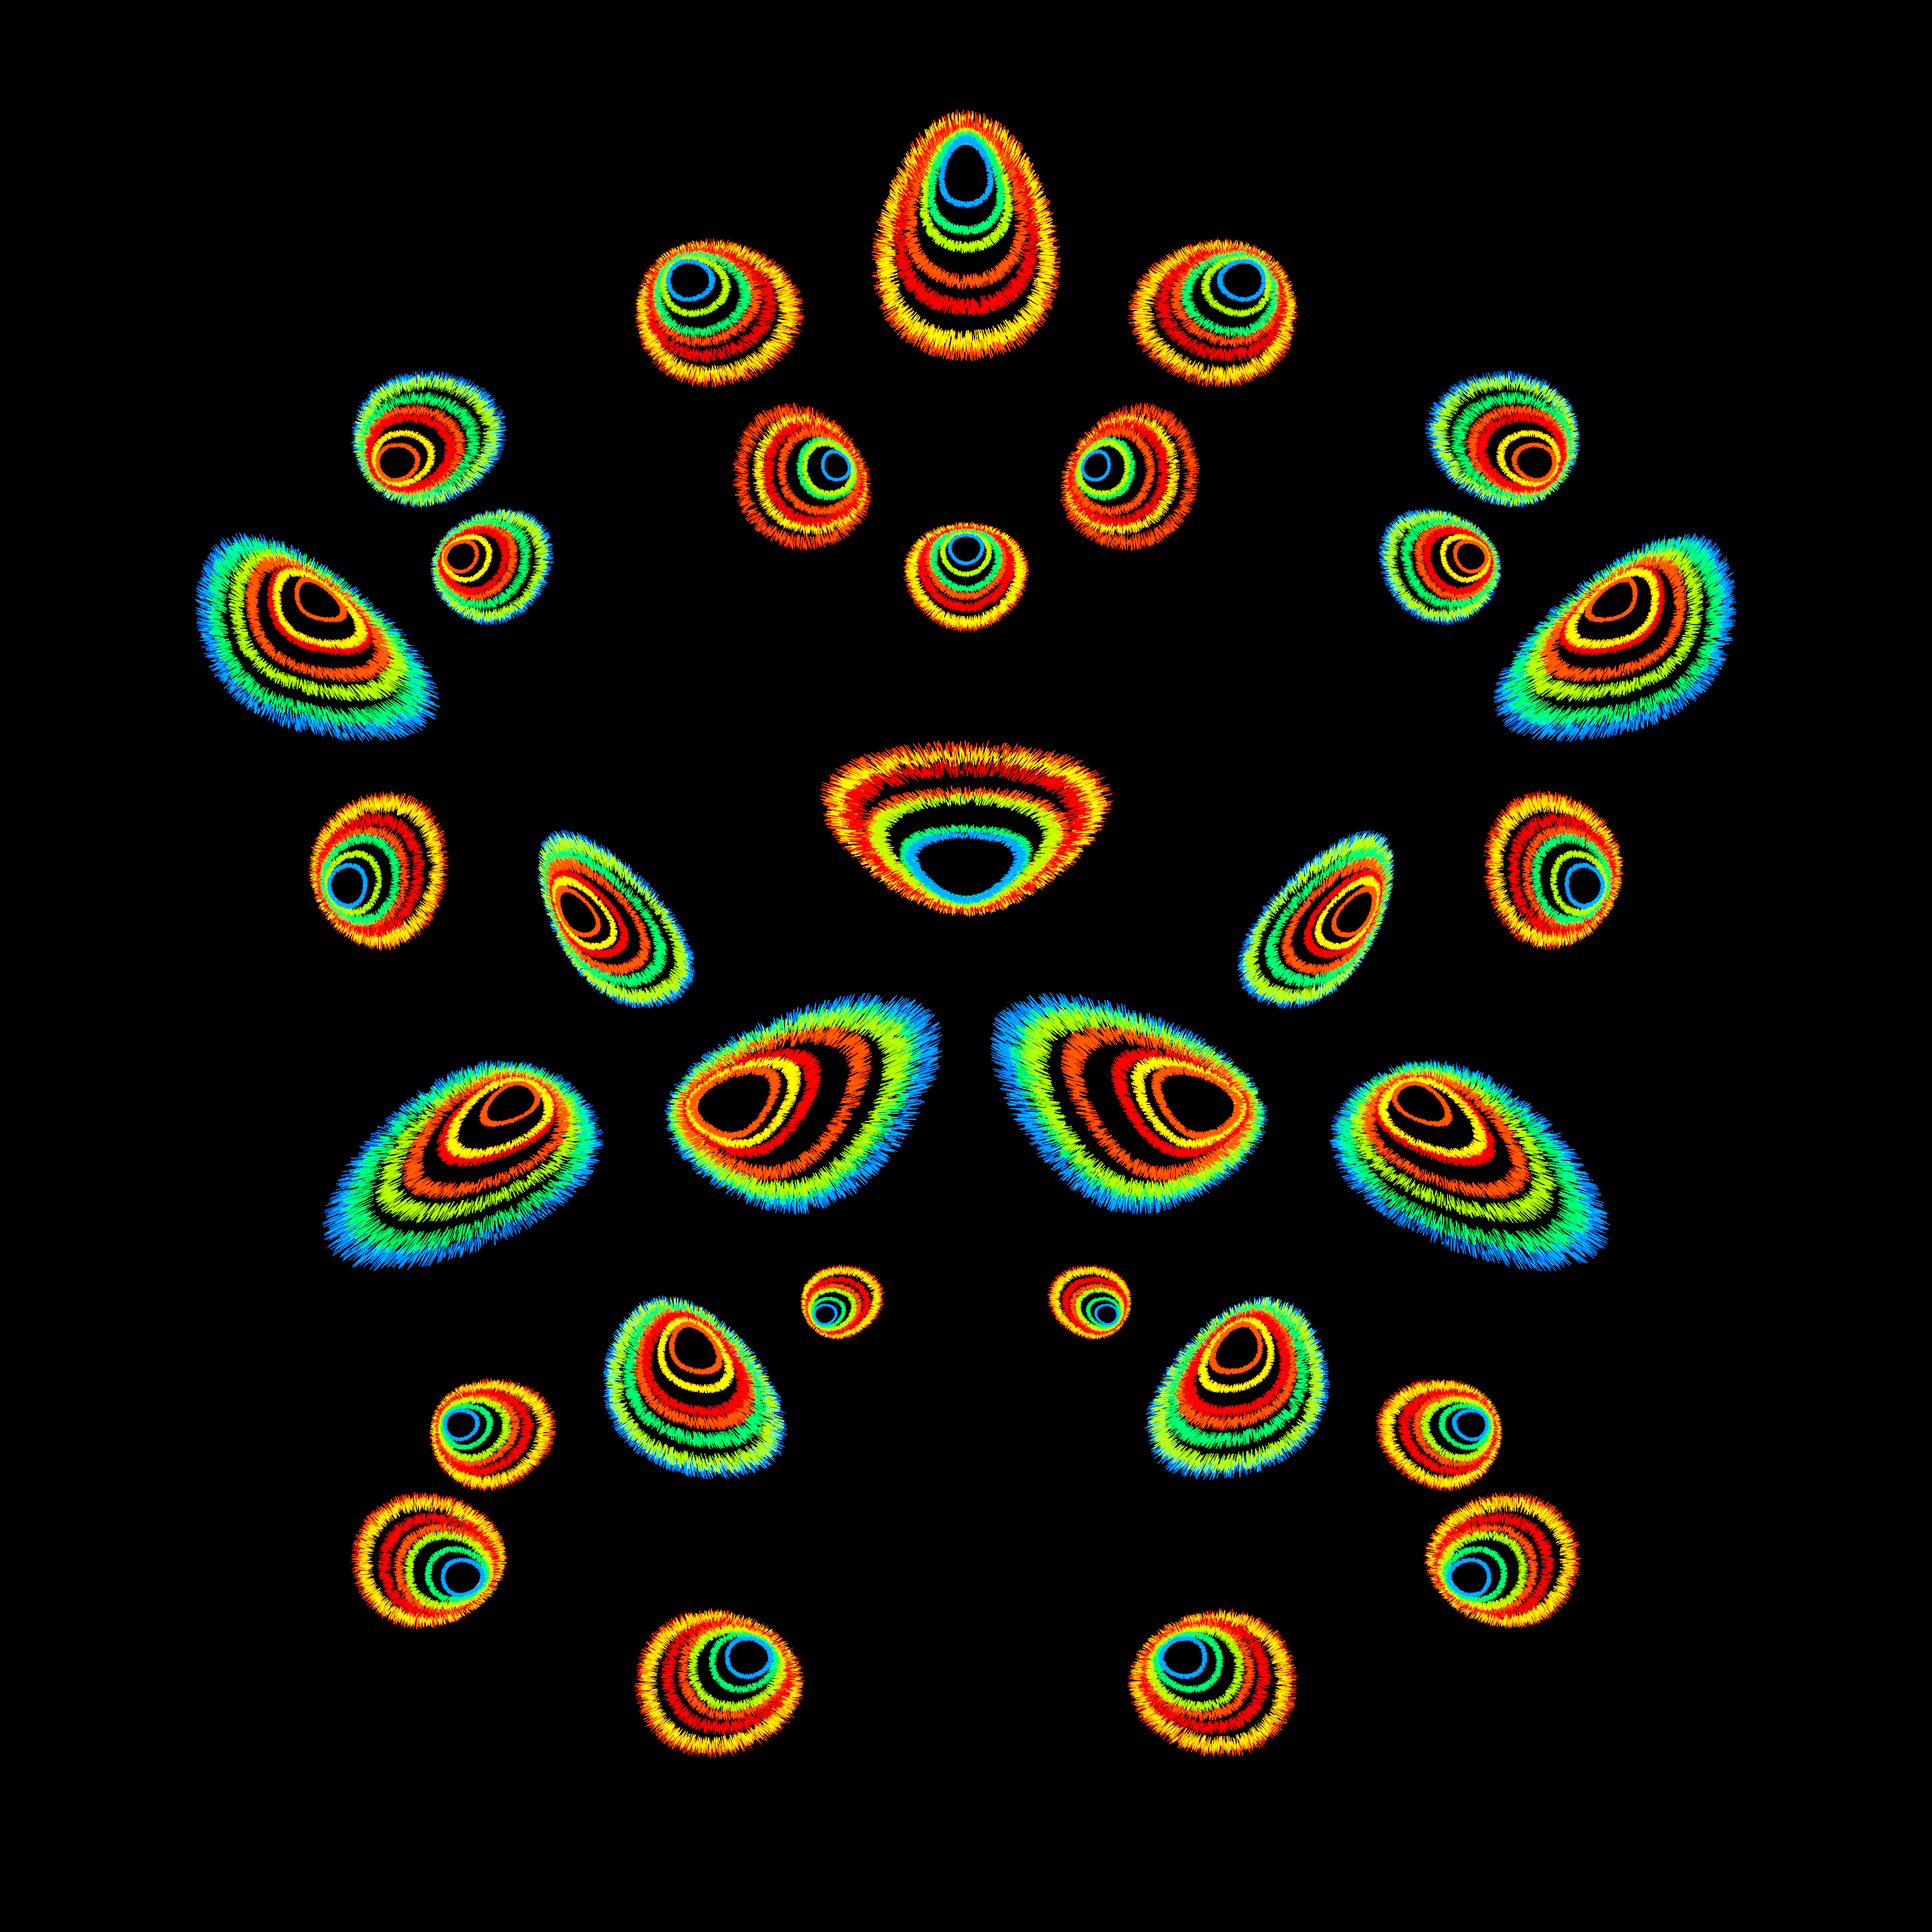
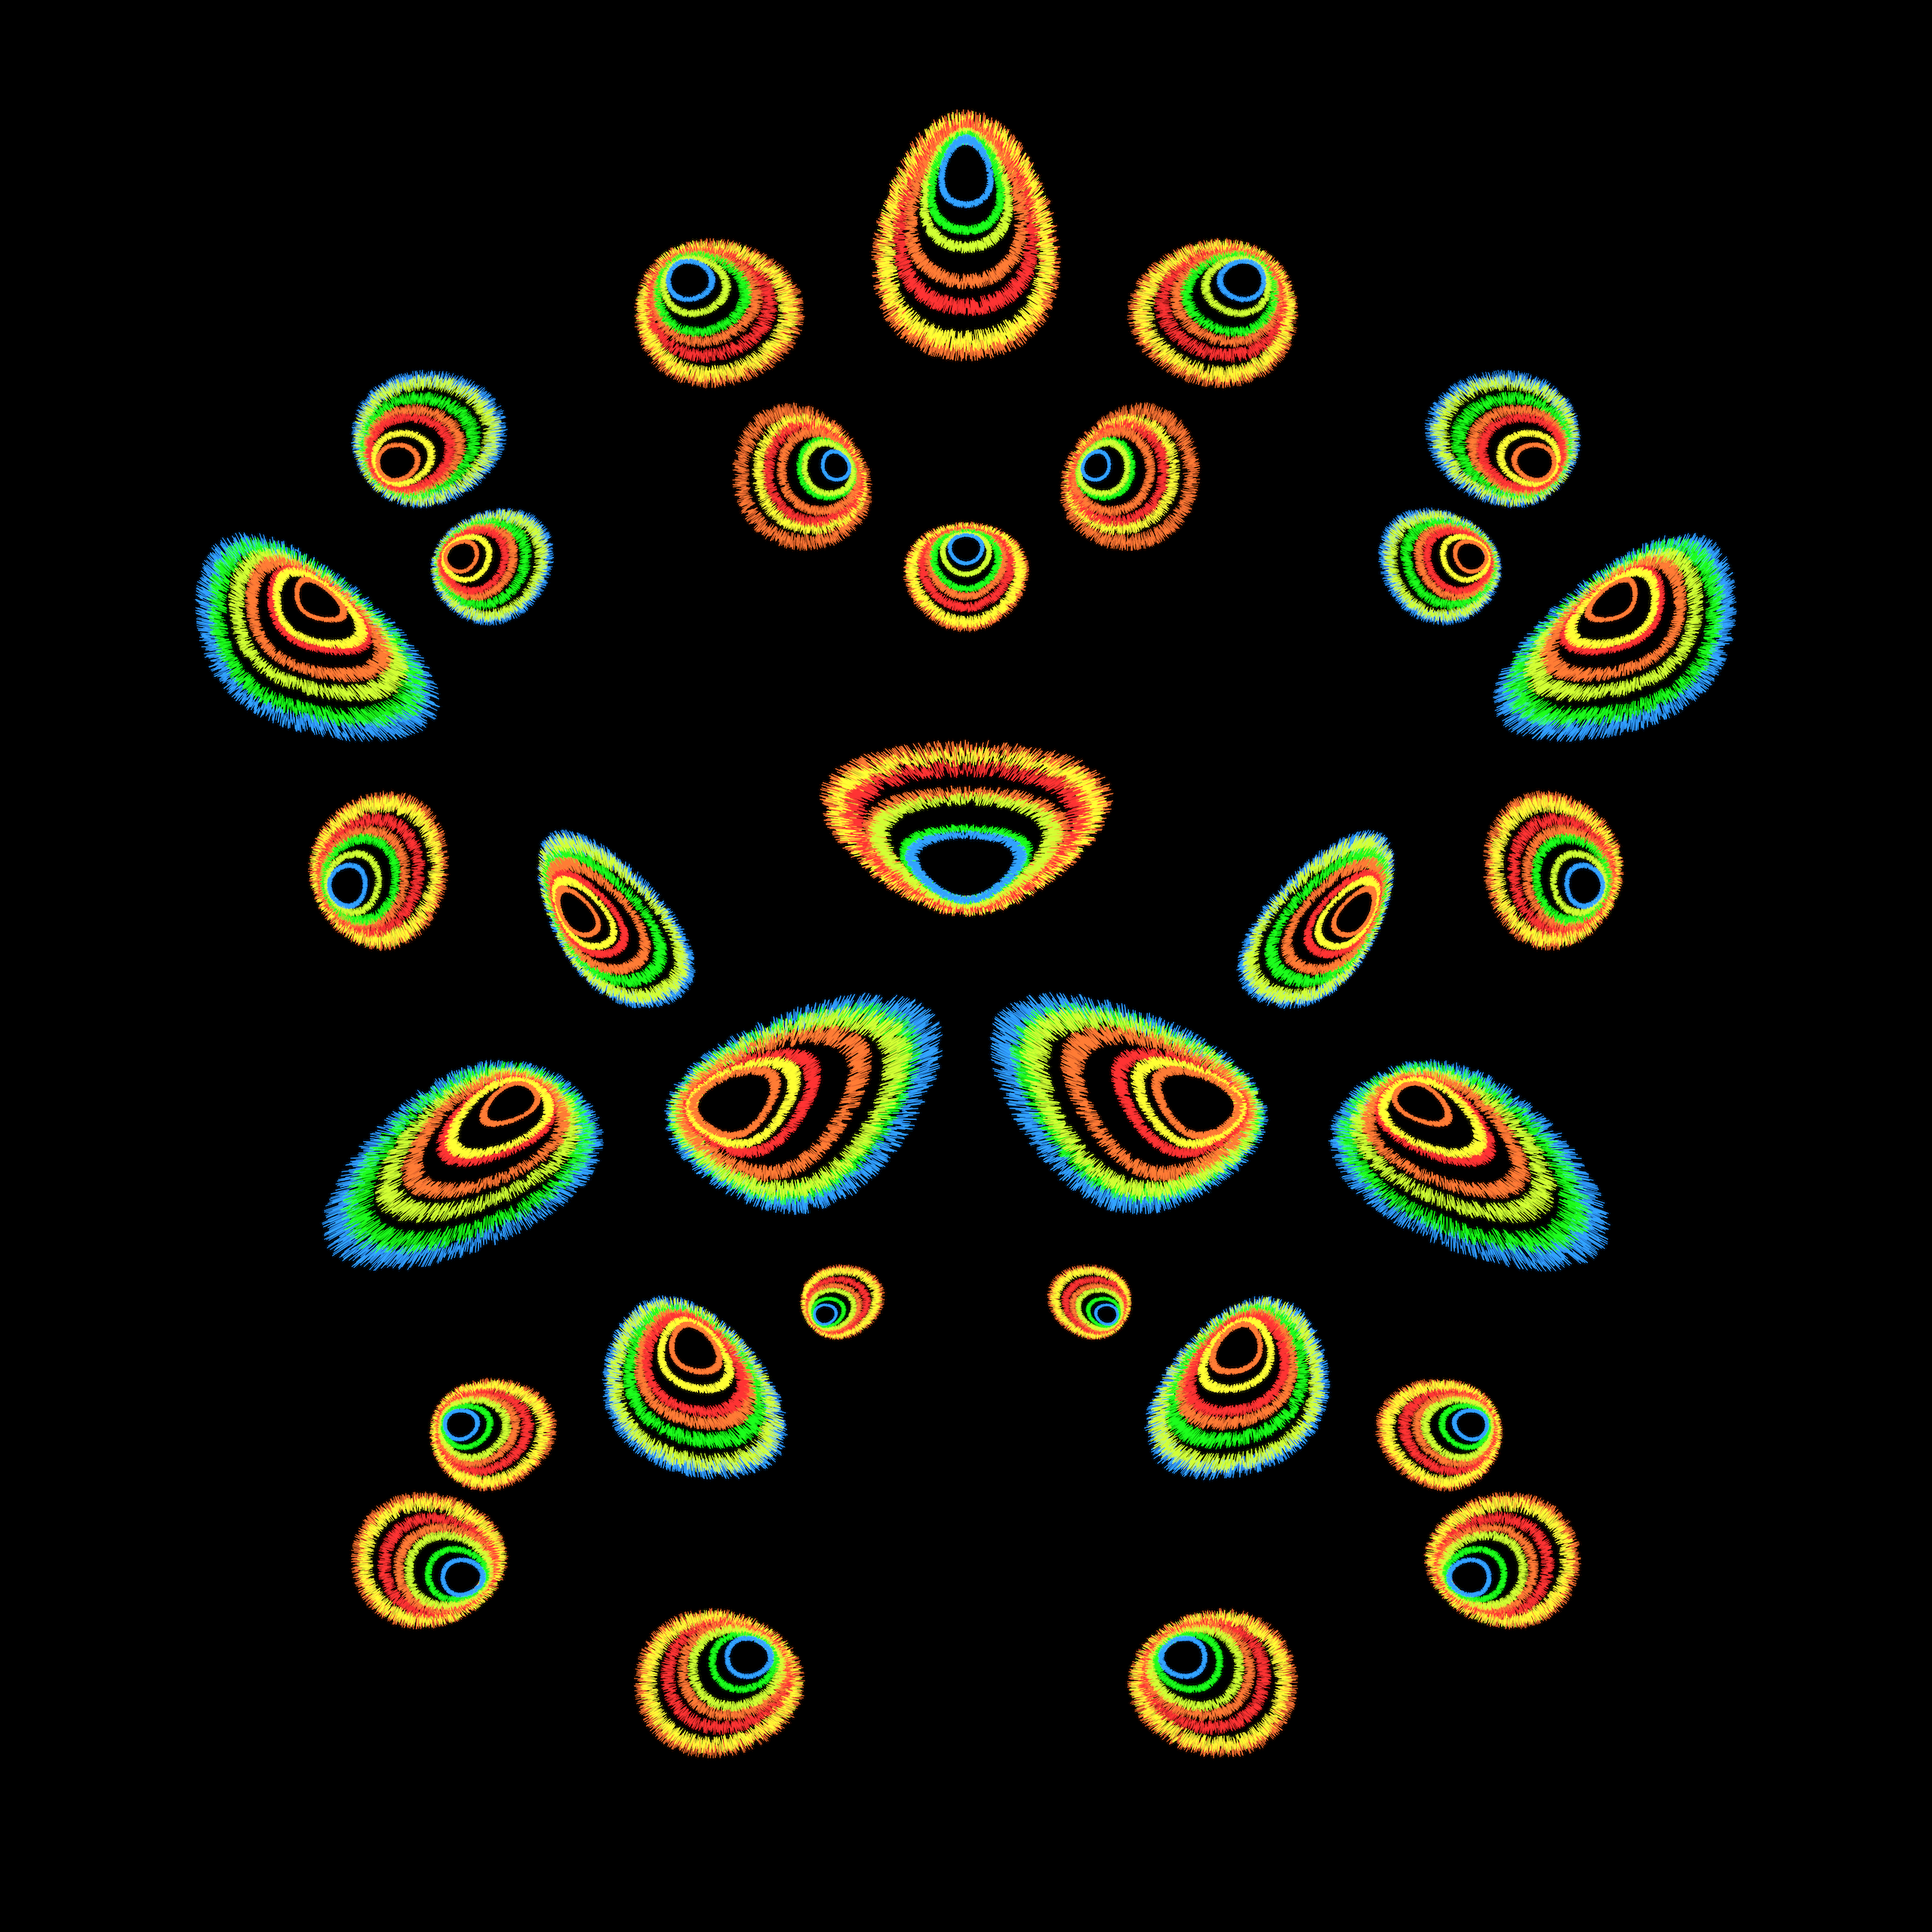
feature(GraphicsPage): update coloring to better match adobergb output (#21)
* feature(GraphicsPage): flauta graphic

* feature(GraphicSection): minor padding stye updates

* feature(graphics): rree-koh color edits

* feature(GraphicsPage): srgb color adjustments???

* feature(GraphicsPage): moar srgb color stuff

* feature(GraphicsPage): moar moar srgb

* feature(GraphicsPage): moar moar moar srgb

diff --git a/components/pages/art/graphics/GraphicsPage.tsx b/components/pages/art/graphics/GraphicsPage.tsx
@@ -15,13 +15,23 @@ export const GraphicsPage: NextPage = () => {
     >
       <GraphicSection
         sectionDivider={null}
+        graphicName={"pastores"}
+        graphicDescription={"what do you see?"}
+        projectName={"viejo pais][new state"}
+        projectLocation={"new mexico"}
+        projectDate={"fall 2022"}
+        soloUrl={"/graphics/pastores.hi.png"}
+        listUrl={"/graphics/pastores.low.png"}
+      />
+      <GraphicSection
+        sectionDivider={<SectionDivider />}
         graphicName={"rree-koh"}
         graphicDescription={"what do you see?"}
         projectName={"plural pinata"}
         projectLocation={"mexico city"}
         projectDate={"summer 2021"}
         soloUrl={"/graphics/rree-koh.hi.png"}
-        listUrl={"/graphics/rree-koh.png"}
+        listUrl={"/graphics/rree-koh.low.png"}
       />
       <GraphicSection
         sectionDivider={<SectionDivider />}
@@ -31,17 +41,17 @@ export const GraphicsPage: NextPage = () => {
         projectLocation={"mexico city"}
         projectDate={"summer 2021"}
         soloUrl={"/graphics/kohm-plee-seh.hi.png"}
-        listUrl={"/graphics/kohm-plee-seh.png"}
+        listUrl={"/graphics/kohm-plee-seh.low.png"}
       />
       <GraphicSection
         sectionDivider={<SectionDivider />}
-        graphicName={"mahs-koh-tah"}
+        graphicName={"mahs-koh-teh"}
         graphicDescription={"what do you see?"}
         projectName={"plural pinata"}
         projectLocation={"mexico city"}
         projectDate={"summer 2021"}
-        soloUrl={"/graphics/mahs-koh-tah.hi.png"}
-        listUrl={"/graphics/mahs-koh-tah.png"}
+        soloUrl={"/graphics/mahs-koh-teh.hi.png"}
+        listUrl={"/graphics/mahs-koh-teh.low.png"}
       />
       <GraphicSection
         sectionDivider={<SectionDivider />}
@@ -51,9 +61,9 @@ export const GraphicsPage: NextPage = () => {
         projectLocation={"mexico city"}
         projectDate={"summer 2021"}
         soloUrl={"/graphics/kool-pah-bleh.hi.png"}
-        listUrl={"/graphics/kool-pah-bleh.png"}
+        listUrl={"/graphics/kool-pah-bleh.low.png"}
       />
-      <GraphicSection
+      {/* <GraphicSection
         sectionDivider={<SectionDivider />}
         graphicName={"neon noodles"}
         graphicDescription={"what do you see?"}
@@ -72,7 +82,7 @@ export const GraphicsPage: NextPage = () => {
         projectDate={"summer-fall 2019"}
         soloUrl={"/graphics/alignmentuntangled.hi.png"}
         listUrl={"/graphics/alignmentuntangled.png"}
-      />
+      /> */}
       {/* <GraphicSection
           sectionDivider={<SectionDivider />}
           graphicName={"maybe tomorrow"}
@@ -91,7 +101,7 @@ export const GraphicsPage: NextPage = () => {
         projectLocation={"san jose"}
         projectDate={"summer-fall 2019"}
         soloUrl={"/graphics/crosswalk.hi.png"}
-        listUrl={"/graphics/crosswalk.png"}
+        listUrl={"/graphics/crosswalk.low.png"}
       />
       {/* <GraphicSection
           sectionDivider={<SectionDivider />}
@@ -103,7 +113,7 @@ export const GraphicsPage: NextPage = () => {
           soloUrl={"/graphics/candychain.hi.png"}
           listUrl={"/graphics/candychain.png"}
         /> */}
-      <GraphicSection
+      {/* <GraphicSection
         sectionDivider={<SectionDivider />}
         graphicName={"trywe"}
         graphicDescription={"what do you see?"}
@@ -152,7 +162,7 @@ export const GraphicsPage: NextPage = () => {
         projectDate={"winter 2017-18"}
         soloUrl={"/graphics/leadtwowater.hi.png"}
         listUrl={"/graphics/leadtwowater.png"}
-      />
+      /> */}
       {/* <GraphicSection
         sectionDivider={<SectionDivider />}
         graphicName={"sinkmylisten"}
@@ -163,7 +173,7 @@ export const GraphicsPage: NextPage = () => {
         soloUrl={"/graphics/sinkmylisten.hi.png"}
         listUrl={"/graphics/sinkmylisten.png"}
       /> */}
-      <GraphicSection
+      {/* <GraphicSection
         sectionDivider={<SectionDivider />}
         graphicName={"sonsetrise"}
         graphicDescription={"what do you see?"}
@@ -202,7 +212,7 @@ export const GraphicsPage: NextPage = () => {
         projectDate={"summer 2017"}
         soloUrl={"/graphics/wherebra.hi.png"}
         listUrl={"/graphics/wherebra.png"}
-      />
+      /> */}
       {/* <GraphicSection
           sectionDivider={<SectionDivider />}
           graphicName={"duction"}

diff --git a/components/pages/home/HomePage.tsx b/components/pages/home/HomePage.tsx
@@ -16,8 +16,8 @@ export const HomePage: NextPage = () => {
       <div role={"figure"} className={homePageStyles.landingImageContainer}>
         <Image
           className={homePageStyles.landingImage}
-          src={"/graphics/mahs-koh-tah.png"}
-          alt={"mahs-koh-tah"}
+          src={"/graphics/mahs-koh-teh.low.png"}
+          alt={"mahs-koh-teh"}
           width={512}
           height={512}
         />

diff --git a/components/pages/art/graphics/common/GraphicSection.module.scss b/components/pages/art/graphics/common/GraphicSection.module.scss
@@ -21,6 +21,7 @@
   flex-grow: 1;
   flex-shrink: 1;
   padding-block-start: $spacer * 3 / 2;
+  padding-inline: $spacer / 4;
   display: flex;
   flex-direction: column;
   justify-content: center;
